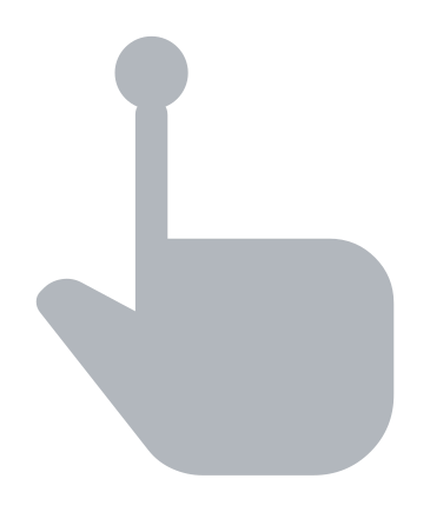
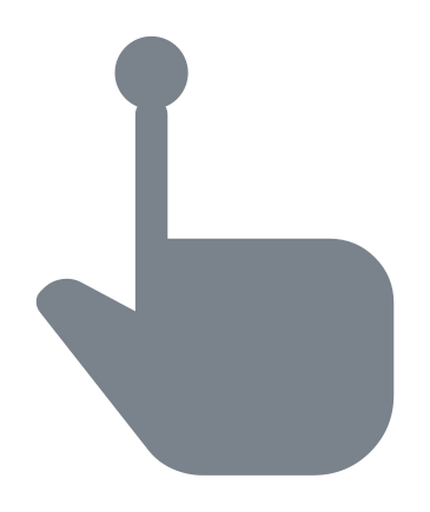
Set TAP hand to 70% opacity and add how-to copy under LVL
The pointing hand is now 30% transparent. While the first-play coach
is up, show “Tap when meter hits the color zone” under the level label.

diff --git a/src/game/GameScreen.tsx b/src/game/GameScreen.tsx
@@ -37,7 +37,11 @@ import { gameHaptics, setGameHapticsEnabled } from '@/game/haptics';
 import { createRng, makeRound } from '@/game/levels';
 import { shouldShowReviewPrompt } from '@/game/review';
 import { comboMultiplier, scoreFill, STARTING_LIVES } from '@/game/scoring';
-import { shouldShowTapHint } from '@/game/tapCoach';
+import {
+  shouldShowTapHint,
+  shouldShowTapHowTo,
+  TAP_HOW_TO,
+} from '@/game/tapCoach';
 import {
   feedbackSlotFor,
   initialRunState,
@@ -1096,6 +1100,14 @@ export function GameScreen() {
       phase,
       paused: menuOpen,
     });
+  const showTapHowTo =
+    persist != null &&
+    shouldShowTapHowTo({
+      tapHintPlays: persist.tapHintPlays,
+      attemptsThisRun: stats.attempts,
+      phase,
+      paused: menuOpen,
+    });
   const meterScale = round.meterScale;
   const meterWrapH = METER_BASE_H * meterScale + METER_WRAP_EXTRA;
   // Pin meter base to the yellow pad in the background art
@@ -1233,6 +1245,9 @@ export function GameScreen() {
             ) : (
               <>
                 <Text style={styles.metaLine}>LVL {round.level}</Text>
+                {showTapHowTo ? (
+                  <Text style={styles.tapHowTo}>{TAP_HOW_TO}</Text>
+                ) : null}
                 {isNewBest ? (
                   <Animated.Text style={[styles.newBestTag, newBestStyle]}>
                     NEW BEST
@@ -1759,6 +1774,18 @@ const styles = StyleSheet.create({
     fontSize: 22,
     lineHeight: 26,
     color: GameColors.ink,
+  },
+  tapHowTo: {
+    marginTop: 6,
+    maxWidth: 260,
+    fontFamily: GameFonts.body,
+    fontSize: 15,
+    lineHeight: 19,
+    textAlign: 'center',
+    color: GameColors.white,
+    textShadowColor: GameColors.ink,
+    textShadowOffset: { width: 0, height: 2 },
+    textShadowRadius: 0,
   },
   newBestTag: {
     marginTop: 4,

diff --git a/src/game/__tests__/tapCoach.test.ts b/src/game/__tests__/tapCoach.test.ts
@@ -6,6 +6,7 @@ import {
   migrateTapHintPlays,
   nextTapHintPlays,
   shouldShowTapHint,
+  shouldShowTapHowTo,
 } from '@/game/tapCoach';
 
 function hint(
@@ -17,6 +18,23 @@ function hint(
   }> = {},
 ) {
   return shouldShowTapHint({
+    tapHintPlays: 0,
+    attemptsThisRun: 0,
+    phase: 'filling',
+    paused: false,
+    ...overrides,
+  });
+}
+
+function howTo(
+  overrides: Partial<{
+    tapHintPlays: number;
+    attemptsThisRun: number;
+    phase: Phase;
+    paused: boolean;
+  }> = {},
+) {
+  return shouldShowTapHowTo({
     tapHintPlays: 0,
     attemptsThisRun: 0,
     phase: 'filling',
@@ -53,6 +71,19 @@ describe('shouldShowTapHint', () => {
 
   test('hides while the menu is open', () => {
     expect(hint({ paused: true })).toBe(false);
+  });
+});
+
+describe('shouldShowTapHowTo', () => {
+  test('shows under LVL during countdown and filling', () => {
+    expect(howTo({ phase: 'countdown' })).toBe(true);
+    expect(howTo({ phase: 'filling' })).toBe(true);
+  });
+
+  test('hides on ready, result and game over', () => {
+    expect(howTo({ phase: 'ready' })).toBe(false);
+    expect(howTo({ phase: 'result' })).toBe(false);
+    expect(howTo({ phase: 'gameover' })).toBe(false);
   });
 });
 

diff --git a/src/game/tapCoach.ts b/src/game/tapCoach.ts
@@ -3,6 +3,9 @@ import type { Phase } from '@/game/runState';
 /** How many fills a new player sees the on-screen tap coach. */
 export const TAP_HINT_PLAYS = 3;
 
+/** Copy under the level label while the first-play coach is up. */
+export const TAP_HOW_TO = 'Tap when meter hits the color zone';
+
 type HintInput = {
   tapHintPlays: number;
   attemptsThisRun: number;
@@ -18,6 +21,18 @@ export function shouldShowTapHint({
   paused,
 }: HintInput): boolean {
   if (paused || phase !== 'filling') return false;
+  return tapHintPlays + attemptsThisRun < TAP_HINT_PLAYS;
+}
+
+/** How-to line under LVL — filling and countdown, so it can be read before GO. */
+export function shouldShowTapHowTo({
+  tapHintPlays,
+  attemptsThisRun,
+  phase,
+  paused,
+}: HintInput): boolean {
+  if (paused) return false;
+  if (phase !== 'filling' && phase !== 'countdown') return false;
   return tapHintPlays + attemptsThisRun < TAP_HINT_PLAYS;
 }
 

diff --git a/src/game/TapHint.tsx b/src/game/TapHint.tsx
@@ -14,6 +14,8 @@ import Animated, {
 import { GameColors, GameFonts } from '@/constants/gameTheme';
 
 const TAP_HAND = require('../../assets/images/tap-hand.png');
+/** 30% transparent — the meter stays readable underneath. */
+const HAND_OPACITY = 0.7;
 
 type Props = {
   visible: boolean;
@@ -126,6 +128,7 @@ const styles = StyleSheet.create({
   hand: {
     width: 92,
     height: 112,
+    opacity: HAND_OPACITY,
   },
   labelWrap: {
     marginTop: 2,
